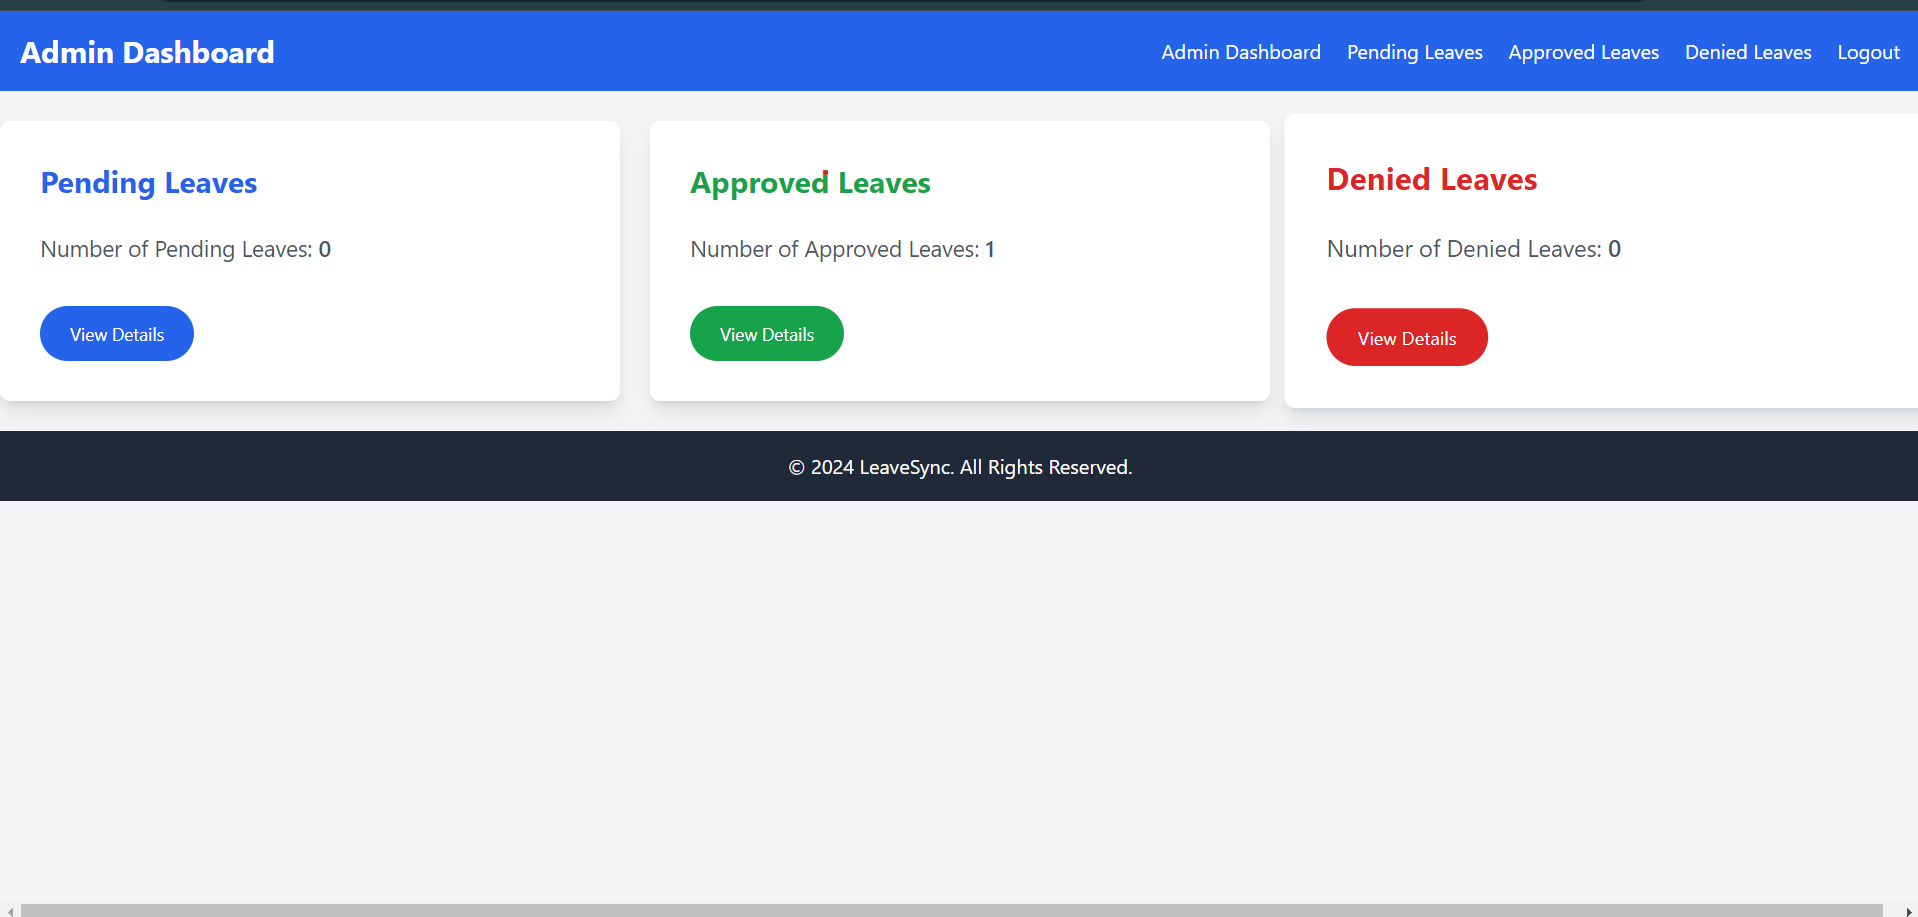
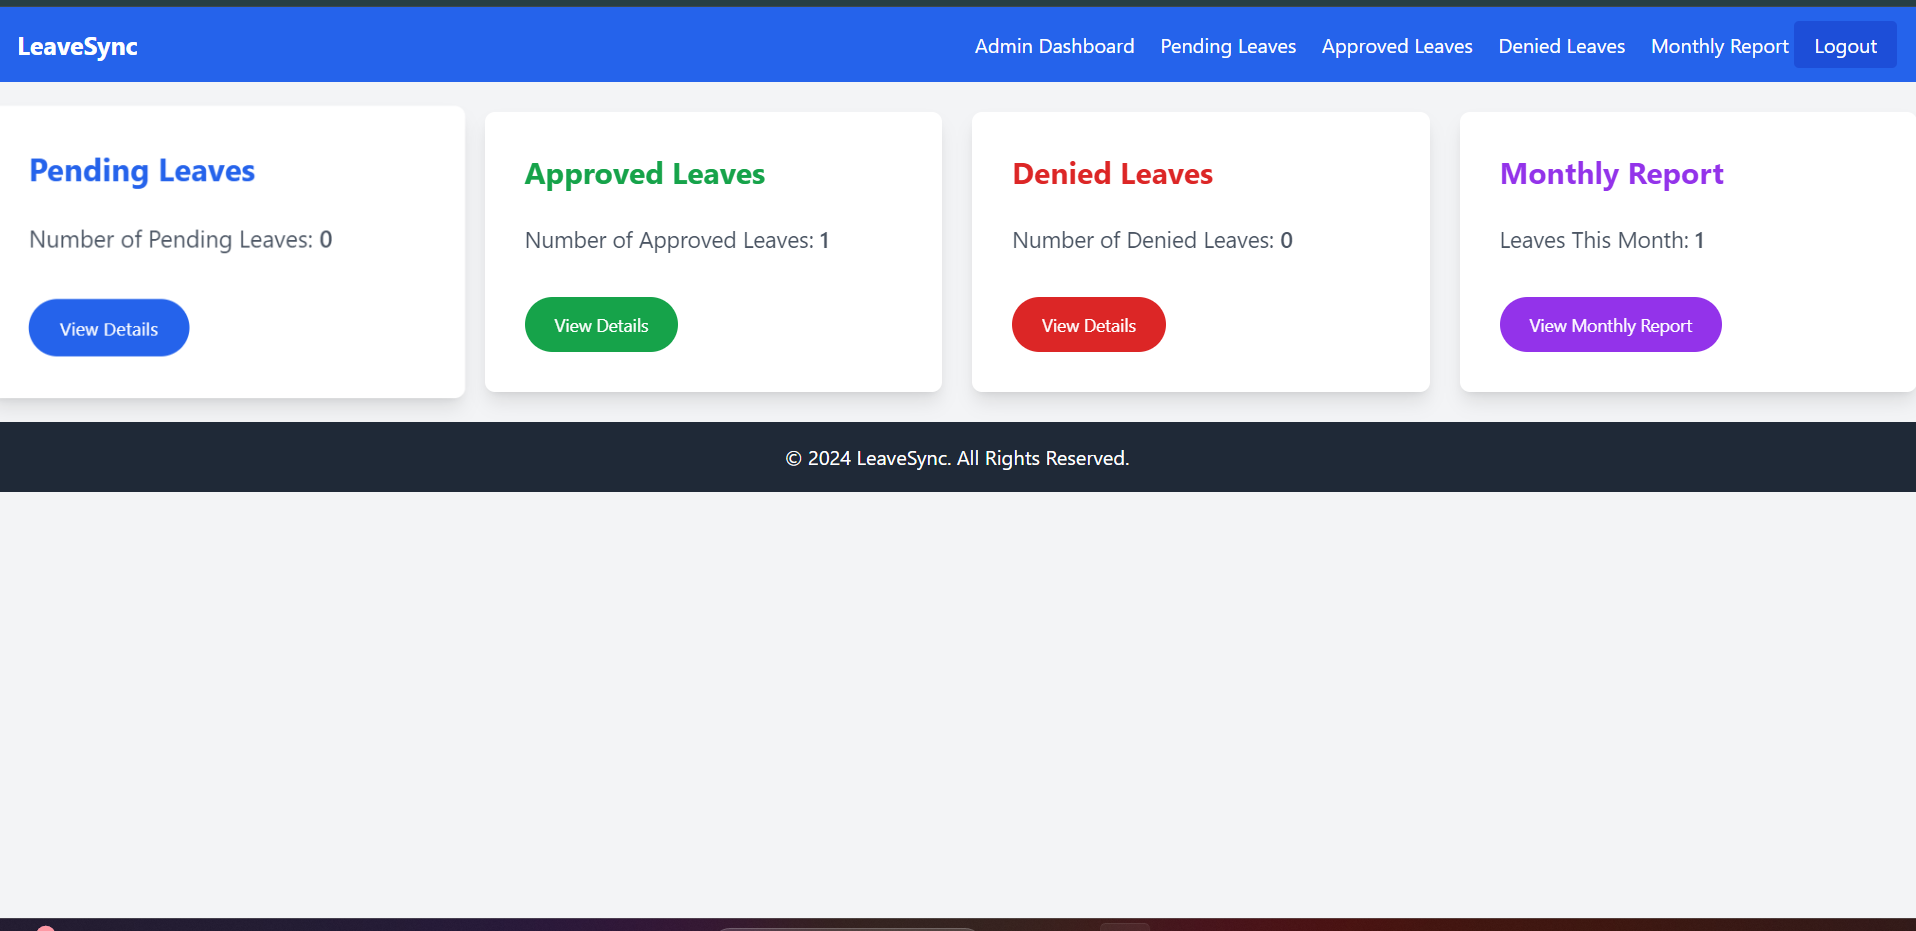
updated readme file

diff --git a/README.md b/README.md
@@ -39,3 +39,5 @@ A comprehensive Leave Management System built with Laravel 10.0 and Tailwind CSS
 ![screenshot](samples/admin-dashboard.png)
 
 ![screenshot](samples/pending-leaves.png)
+
+![screenshot](samples/monthly-report.png)
